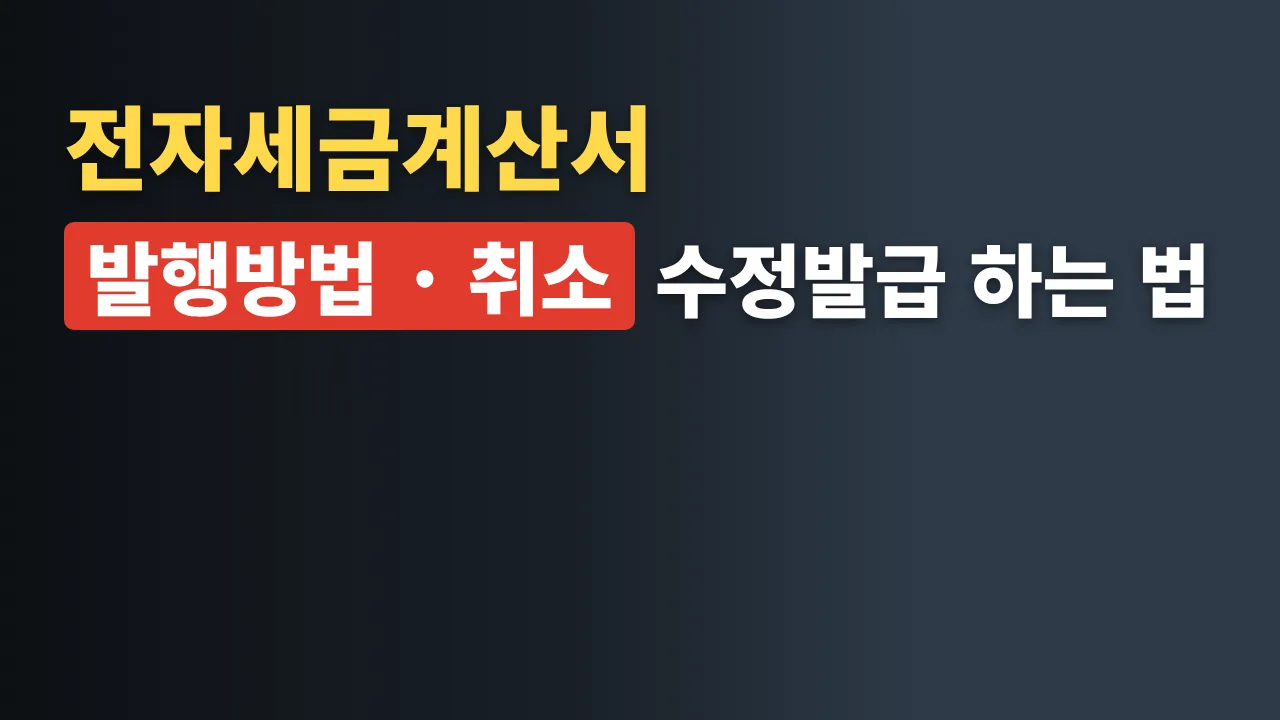
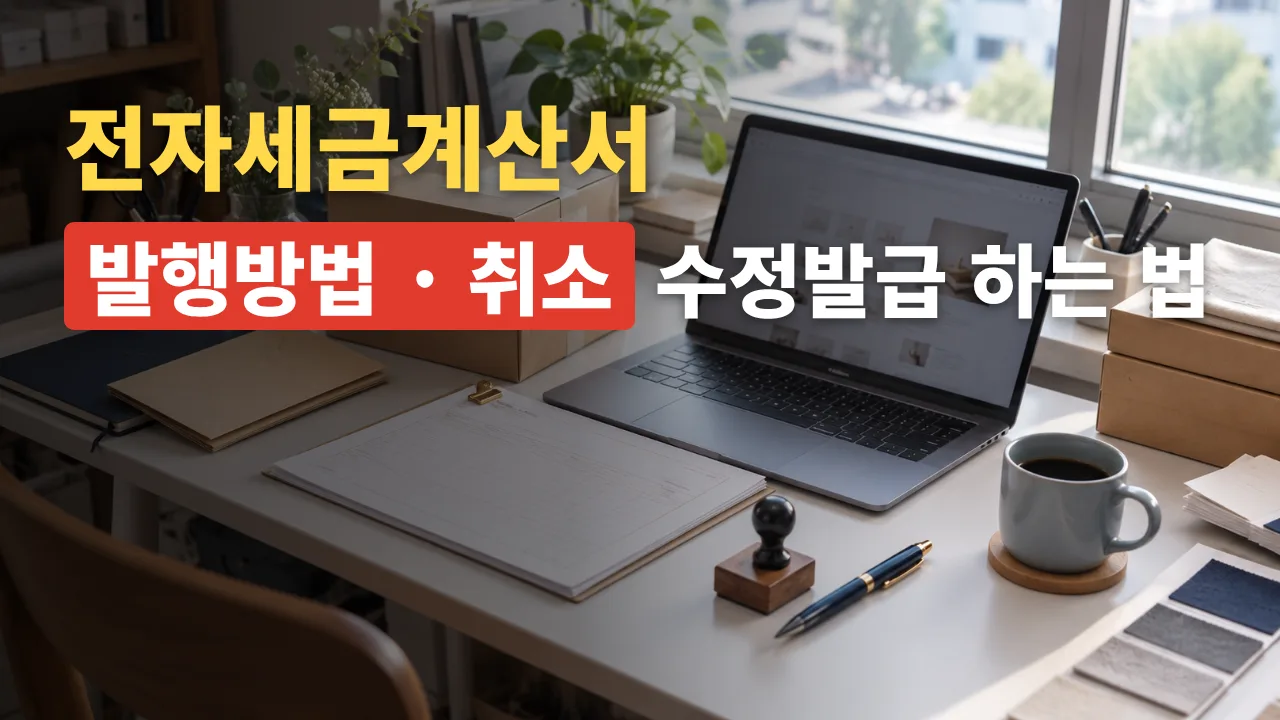
글 다듬기: 간이과세자 일반과세자 차이·전환 방법, 전자세금계산서 썸네일 교체
Claude-Session: https://claude.ai/code/session_01UeEtVFVWMgirAoUtyHaaoz

diff --git a/src/content/articles/business/simplified-taxpayer.md b/src/content/articles/business/simplified-taxpayer.md
@@ -1,8 +1,8 @@
 ---
-title: 간이과세자 기준 배제 업종과 세금계산서 일반과세자 차이
-seoTitle: 간이과세자 기준과 일반과세자 차이
-cardTitle: 간이과세자 기준과 차이
-description: 간이과세자 기준은 직전 연도 매출 1억400만원 미만 개인사업자입니다. 배제 업종, 세금계산서, 부가세 계산, 일반과세자와 차이를 정리했습니다.
+title: 간이과세자 기준과 일반과세자 차이 세금 비교와 전환 방법
+seoTitle: 간이과세자 기준과 일반과세자 차이 전환 방법
+cardTitle: 간이과세자 일반과세자 차이와 전환
+description: 간이과세자 기준과 일반과세자 차이, 매입 비율별 세금 비교, 홈택스 간이과세포기신고로 전환하는 방법과 기준을 정리했어요.
 subcategory: tax
 contentType: guide
 contentMode: evergreen
@@ -19,13 +19,17 @@ synonyms:
   - 간이과세 기준 금액
   - 간이과세자 부가가치율
   - 간이과세 포기
-  - 간이과세자 세금계산서
+  - 간이과세자 일반과세자 전환
+  - 간이과세자 일반과세자 전환 방법
+  - 간이과세자 일반과세자 전환 기준
+  - 간이과세자 일반과세자 세금 차이
+  - 간이과세자 일반과세자 전환 홈택스
 summary: 간이과세자 기준은 직전 연도 공급대가(부가세 포함 매출) 1억400만원 미만인 개인사업자이고, 배제 업종에 해당하면 매출이 적어도 간이과세를 받을 수 없어요. 간이과세 대상이라면, 주로 소비자를 상대하고 매입이 적을 때는 간이과세가, 세금계산서가 필요하거나 초기 시설 투자가 클 때는 일반과세가 맞을 수 있어요. 간이과세자는 적격 매입액의 0.5%만 공제받고 환급이 없어요.
 thumbnail: /images/thumbnails/simplified-taxpayer.webp
 ogImage: /images/og/simplified-taxpayer.png
 datePublished: 2026-10-06
-dateModified: 2026-10-25
-researchedAt: 2026-10-25
+dateModified: 2026-10-31
+researchedAt: 2026-10-31
 author: operator
 ymyl: medium
 topics: [small-business, tax]
@@ -50,11 +54,11 @@ quickFacts:
 checklist:
   title: 간이과세를 고를 수 있는지 먼저 확인
   items:
-    - 법인이 아닌 개인사업자이고, 연 매출(부가세 포함)이 1억400만원에 못 미칠 것으로 예상됩니다.
-    - 하려는 사업이 아래 '간이과세를 받을 수 없는 업종'에 해당하지 않습니다(최종소비자 대상 예외 확인).
-    - 일반과세가 적용되는 다른 사업장이 없고, 사업장이 여럿이면 매출 합계도 기준 미만입니다.
-    - 일반과세자의 사업을 인수하지 않았으며, 복식부기의무자나 국세청이 정한 간이과세 배제 기준에도 해당하지 않습니다. 예외가 있는 경우에는 별도로 확인합니다.
-    - 모두 해당해도 간이 적용이 자동으로 확정되는 것은 아니니, 등록할 때 세무서 안내로 최종 확인합니다.
+    - 법인이 아닌 개인사업자이고, 연 매출(부가세 포함)이 1억400만원에 못 미칠 것으로 예상돼요.
+    - 하려는 사업이 아래 '간이과세를 받을 수 없는 업종'에 해당하지 않아요(최종소비자 대상 예외 확인).
+    - 일반과세가 적용되는 다른 사업장이 없고, 사업장이 여럿이면 매출 합계도 기준 미만이에요.
+    - 일반과세자의 사업을 인수하지 않았으며, 복식부기의무자나 국세청이 정한 간이과세 배제 기준에도 해당하지 않아요. 예외가 있는 경우에는 별도로 확인해요.
+    - 모두 해당해도 간이 적용이 자동으로 확정되는 것은 아니니, 등록할 때 세무서 안내로 최종 확인해요.
 actionLinks:
   - org: 국세청
     action: check
@@ -68,17 +72,19 @@ actionLinks:
     sourceId: local:law-vat-61
 faq:
   - question: 법인도 간이과세자가 될 수 있나요?
-    answer: 아닙니다. 부가가치세법은 간이과세 대상을 직전 연도 공급대가가 기준 금액에 못 미치는 개인사업자로 정하고 있습니다.
+    answer: 아니에요. 부가가치세법은 간이과세 대상을 직전 연도 공급대가가 기준 금액에 못 미치는 개인사업자로 정하고 있어요.
   - question: 간이과세자도 세금계산서를 발급할 수 있나요?
-    answer: 신규 간이과세자는 개업한 날부터 개업한 해의 다음 해 6월 30일까지 세금계산서 대신 영수증을 발급합니다. 직전 연도 공급대가가 4,800만원 미만인 간이과세자도 영수증을 발급합니다. 그 밖의 간이과세자(직전 연도 4,800만원 이상)는 원칙적으로 세금계산서를 발급합니다.
+    answer: 신규 간이과세자는 개업한 날부터 개업한 해의 다음 해 6월 30일까지 세금계산서 대신 영수증을 발급해요. 직전 연도 공급대가가 4,800만원 미만인 간이과세자도 영수증을 발급해요. 그 밖의 간이과세자(직전 연도 4,800만원 이상)는 원칙적으로 세금계산서를 발급해요.
   - question: 거래처가 세금계산서를 달라고 하는데 영수증 발급 대상이면 어떻게 하나요?
-    answer: 일반과세자 거래처는 세금계산서를 받아야 그 거래의 부가세를 매입세액으로 공제받을 수 있고, 영수증 발급 기간인 간이과세자가 발급한 카드전표 등도 매입세액 공제 대상이 아닙니다. 거래처가 세금계산서를 꼭 필요로 한다면 거래 조건을 미리 협의하거나, 일반과세를 선택할지 검토하세요. 이것은 부가세 매입세액 공제 이야기이고, 거래처의 비용 처리까지 모두 안 된다는 뜻은 아닙니다.
+    answer: 일반과세자 거래처는 세금계산서를 받아야 그 거래의 부가세를 매입세액으로 공제받을 수 있고, 영수증 발급 기간인 간이과세자가 발급한 카드전표 등도 매입세액 공제 대상이 아니에요. 거래처가 세금계산서를 꼭 필요로 한다면 거래 조건을 미리 협의하거나, 일반과세를 선택할지 검토하세요. 이것은 부가세 매입세액 공제 이야기이고, 거래처의 비용 처리까지 모두 안 된다는 뜻은 아니에요.
   - question: 간이과세자는 부가세 신고를 언제 하나요?
-    answer: 1월부터 12월까지 1년치를 다음 해 1월 1일부터 25일 사이에 신고·납부합니다. 7월에는 직전 과세기간 납부세액의 절반이 예정부과로 고지될 수 있고(고지할 금액이 50만원 미만이면 고지하지 않음), 1월부터 6월 사이에 세금계산서를 발급한 간이과세자는 7월 25일까지 예정신고를 해야 합니다.
+    answer: 1월부터 12월까지 1년치를 다음 해 1월 1일부터 25일 사이에 신고·납부해요. 7월에는 직전 과세기간 납부세액의 절반이 예정부과로 고지될 수 있고(고지할 금액이 50만원 미만이면 고지하지 않음), 1월부터 6월 사이에 세금계산서를 발급한 간이과세자는 7월 25일까지 예정신고를 해야 해요.
   - question: 올해 매출이 1억400만원을 넘으면 바로 일반과세자가 되나요?
-    answer: 아닙니다. 1월부터 12월까지의 공급대가로 판단해 다음 해 7월 1일부터 그다음 해 6월 30일까지 바뀐 유형이 적용됩니다. 세무서는 유형이 바뀌는 과세기간 시작 20일 전까지 통지합니다.
+    answer: 아니에요. 1월부터 12월까지의 공급대가로 판단해 다음 해 7월 1일부터 그다음 해 6월 30일까지 바뀐 유형이 적용돼요. 세무서는 유형이 바뀌는 과세기간 시작 20일 전까지 통지해요.
 related: [/business/business-registration-application/, /business/vat-calculator/, /business/tax-calendar/]
 changelog:
+  - date: 2026-10-31
+    summary: 홈택스 간이과세포기신고 검색 화면과 전환 방법, 과세유형 확인법, 운영자 전환 경험을 더하고 차이·세금 차이·전환 기준 키워드 소제목으로 다시 정리했어요.
   - date: 2026-10-25
     summary: 실제로 많이 찾는 '간이과세자 기준'에 맞춰 제목과 첫 부분을 정리하고, 간이과세 가능 여부 판단 흐름도와 간이과세자 신고·납부 일정(1월 확정신고, 7월 예정부과·예정신고)을 국세청 부가가치세 개요와 부가가치세법 제66조·제67조 기준으로 추가했습니다.
   - date: 2026-10-17
@@ -215,34 +221,34 @@ localSources:
 
 ## 간이과세자 기준과 받을 수 없는 경우
 
-직전 연도 공급대가(부가세를 포함한 매출) 합계가 **1억400만원 미만**인 **개인사업자**는 간이과세자가 될 수 있습니다. 법인은 해당하지 않습니다. 직전 연도 중에 개업했다면 그 기간의 매출을 12개월로 환산해 판단합니다.
+직전 연도 공급대가(부가세를 포함한 매출) 합계가 **1억400만원 미만**인 **개인사업자**는 간이과세자가 될 수 있어요. 법인은 해당하지 않아요. 직전 연도 중에 개업했다면 그 기간의 매출을 12개월로 환산해 판단해요.
 
 <figure class="shot">
-  <a href="/images/articles/simplified-taxpayer-eligibility.svg" class="shot__zoom"><img src="/images/articles/simplified-taxpayer-eligibility.svg" width="1200" height="780" alt="간이과세 가능 여부 판단 흐름도. 개인사업자인지, 직전 연도 매출이 1억400만원 미만인지(부동산임대업·과세유흥장소는 4,800만원 미만), 간이과세 배제 업종이 아닌지, 일반과세 사업장·사업 인수·복식부기의무 같은 다른 배제 사유가 없는지 차례로 확인해 모두 해당하면 간이과세 가능, 하나라도 아니면 원칙적으로 일반과세자라는 내용입니다(사업 인수 등은 예외가 있음)." loading="lazy" decoding="async"></a>
-  <figcaption>간이과세를 받을 수 있는지 확인하는 순서입니다. 꿀팁정복이 국세청 부가가치세 개요와 부가가치세법 간이과세 조문(2026년 10월 25일 확인)을 바탕으로 만든 그림이며, 최종 판단은 등록할 때 세무서 안내를 따릅니다.</figcaption>
+  <a href="/images/articles/simplified-taxpayer-eligibility.svg" class="shot__zoom"><img src="/images/articles/simplified-taxpayer-eligibility.svg" width="1200" height="780" alt="간이과세 가능 여부 판단 흐름도. 개인사업자인지, 직전 연도 매출이 1억400만원 미만인지(부동산임대업·과세유흥장소는 4,800만원 미만), 간이과세 배제 업종이 아닌지, 일반과세 사업장·사업 인수·복식부기의무 같은 다른 배제 사유가 없는지 차례로 확인해 모두 해당하면 간이과세 가능, 하나라도 아니면 원칙적으로 일반과세자라는 내용이에요(사업 인수 등은 예외가 있음)." loading="lazy" decoding="async"></a>
+  <figcaption>간이과세를 받을 수 있는지 확인하는 순서예요. 꿀팁정복이 국세청 부가가치세 개요와 부가가치세법 간이과세 조문(2026년 10월 25일 확인)을 바탕으로 만든 그림이며, 최종 판단은 등록할 때 세무서 안내를 따라요.</figcaption>
 </figure>
 
-매출이 기준보다 적어도 아래에 해당하면 간이과세를 받을 수 없습니다.
+매출이 기준보다 적어도 아래에 해당하면 간이과세를 받을 수 없어요.
 
 - **업종**: 광업, 제조업, 도매업·상품중개업, 부동산매매업, 전기·가스·증기·수도 사업, 건설업, 전문·과학·기술서비스업, 사업시설관리·사업지원·임대서비스업, 변호사·세무사·의사·약사 같은 전문직 사업
-- **최종소비자 대상 예외**: 위 업종이라도 과자점·떡방앗간·양복점·양장점·양화점, 도배·실내장식·배관·냉난방 공사, 개인·가정용품 임대, 인물사진·행사용 영상 촬영, 복사업처럼 주로 최종소비자를 상대하는 사업은 간이과세를 받을 수 있습니다.
-- **부동산임대업·과세유흥장소**: 그 업종의 직전 연도 공급대가가 4,800만원 이상이면 제외되고, 지역·규모 기준에 걸려도 제외됩니다.
-- **사업장**: 일반과세가 적용되는 다른 사업장이 있거나, 사업장이 둘 이상인데 매출 합계가 기준 이상이면 제외됩니다.
-- **그 밖에**: 일반과세자에게서 넘겨받은 사업, 전전년도 기준 복식부기의무자가 하는 사업, 국세청장이 정한 지역·규모 기준에 해당하는 사업도 제외될 수 있습니다.
+- **최종소비자 대상 예외**: 위 업종이라도 과자점·떡방앗간·양복점·양장점·양화점, 도배·실내장식·배관·냉난방 공사, 개인·가정용품 임대, 인물사진·행사용 영상 촬영, 복사업처럼 주로 최종소비자를 상대하는 사업은 간이과세를 받을 수 있어요.
+- **부동산임대업·과세유흥장소**: 그 업종의 직전 연도 공급대가가 4,800만원 이상이면 제외되고, 지역·규모 기준에 걸려도 제외돼요.
+- **사업장**: 일반과세가 적용되는 다른 사업장이 있거나, 사업장이 둘 이상인데 매출 합계가 기준 이상이면 제외돼요.
+- **그 밖에**: 일반과세자에게서 넘겨받은 사업, 전전년도 기준 복식부기의무자가 하는 사업, 국세청장이 정한 지역·규모 기준에 해당하는 사업도 제외될 수 있어요.
 
-국세청은 연 매출이 1억400만원 이상으로 예상되거나 간이과세가 배제되는 업종·지역이면 일반과세자로 등록하라고 안내합니다.
+국세청은 연 매출이 1억400만원 이상으로 예상되거나 간이과세가 배제되는 업종·지역이면 일반과세자로 등록하라고 안내해요.
 
-## 어느 쪽이 맞는지 가르는 세 가지
+## 간이과세자 일반과세자 어느 쪽이 맞을까
 
-국세청은 **주로 소비자를 상대하는 업종으로 연 매출이 기준에 못 미칠 소규모사업자**라면 간이과세자로 등록하는 것이 유리하다고 안내합니다. 반대로 말하면 아래 세 가지에 해당할수록 일반과세가 맞을 수 있습니다.
+국세청은 **주로 소비자를 상대하는 업종으로 연 매출이 기준에 못 미칠 소규모사업자**라면 간이과세자로 등록하는 것이 유리하다고 안내해요. 반대로 말하면 아래 세 가지에 해당할수록 일반과세가 맞을 수 있어요.
 
-1. **거래처가 사업자라 세금계산서를 요구하나요?** 신규 간이과세자는 개업한 날부터 개업한 해의 다음 해 6월 30일까지, 직전 연도 매출이 4,800만원 미만인 간이과세자는 세금계산서 대신 영수증을 발급합니다. 일반과세자 거래처는 세금계산서가 있어야 그 거래의 부가세를 매입세액으로 공제받을 수 있습니다.
-2. **개업 초기에 인테리어·장비 매입이 큰가요?** 일반과세자는 매입세액이 매출세액보다 크면 환급받고, 사업 설비를 새로 갖추면 조기환급도 신청할 수 있습니다. 간이과세자는 공제액이 납부세액보다 커도 초과분을 돌려받지 못합니다.
-3. **매출에 비해 매입이 많은가요?** 간이과세자는 매입액의 0.5%만 공제받습니다. 매입 비율이 높을수록 일반과세자의 세금이 상대적으로 줄어듭니다.
+1. **거래처가 사업자라 세금계산서를 요구하나요?** 신규 간이과세자는 개업한 날부터 개업한 해의 다음 해 6월 30일까지, 직전 연도 매출이 4,800만원 미만인 간이과세자는 세금계산서 대신 영수증을 발급해요. 일반과세자 거래처는 세금계산서가 있어야 그 거래의 부가세를 매입세액으로 공제받을 수 있어요.
+2. **개업 초기에 인테리어·장비 매입이 큰가요?** 일반과세자는 매입세액이 매출세액보다 크면 환급받고, 사업 설비를 새로 갖추면 조기환급도 신청할 수 있어요. 간이과세자는 공제액이 납부세액보다 커도 초과분을 돌려받지 못해요.
+3. **매출에 비해 매입이 많은가요?** 간이과세자는 매입액의 0.5%만 공제받아요. 매입 비율이 높을수록 일반과세자의 세금이 상대적으로 줄어들어요.
 
-## 매입 비율로 본 부가세 비교
+## 간이과세자 일반과세자 세금 차이
 
-부가세만 놓고 단순하게 계산하면, 일반과세자 세액은 (매출 − 매입) ÷ 11이고 간이과세자 세액은 매출 × 부가가치율 × 10% − 매입 × 0.5%입니다. 두 식이 같아지는 매입 비율은 업종별 부가가치율에 따라 아래와 같습니다.
+부가세만 놓고 단순하게 계산하면, 일반과세자 세액은 (매출 − 매입) ÷ 11이고 간이과세자 세액은 매출 × 부가가치율 × 10% − 매입 × 0.5%예요. 두 식이 같아지는 매입 비율은 업종별 부가가치율에 따라 아래와 같아요.
 
 <div class="table-cards">
 
@@ -252,31 +258,31 @@ localSources:
 
 </div>
 
-이 표는 매출·매입이 모두 부가세가 붙는 거래이고 세금계산서 등 적격 증빙을 갖췄다고 가정한 계산입니다. 간이과세자 납부면제, 카드 발행세액공제, 면세 매입, 의제매입세액공제, 소득세는 넣지 않았으므로 실제 사업자에게 그대로 적용되는 기준은 아닙니다.
+이 표는 매출·매입이 모두 부가세가 붙는 거래이고 세금계산서 등 적격 증빙을 갖췄다고 가정한 계산이에요. 간이과세자 납부면제, 카드 발행세액공제, 면세 매입, 의제매입세액공제, 소득세는 넣지 않았으니 실제 사업자에게 그대로 적용되는 기준은 아니에요.
 
 ## 가상 사례로 비교하기
 
-아래 사례도 같은 단순 가정의 부가세 비교입니다. 금액은 부가세를 포함한 1년치이고, 면세 매입·의제매입세액공제·카드 발행세액공제 등은 제외했습니다.
+아래 사례도 같은 단순 가정의 부가세 비교예요. 금액은 부가세를 포함한 1년치이고, 면세 매입·의제매입세액공제·카드 발행세액공제 등은 제외했어요.
 
 <div class="table-cards">
 
 | 가상 사례 | 일반과세자 | 간이과세자 | 이 가정에서는 |
 |---|---|---|---|
-| 음식점, 평소 해: 매출 8,000만원, 적격 증빙을 갖춘 과세 매입 3,300만원 | 약 427만원 납부 | 약 104만원 납부 | 간이과세자의 부가세가 더 적습니다 |
-| 같은 음식점, 개업 첫해 인테리어·장비 6,600만원을 더 산 경우(과세 매입 합계 9,900만원) | 약 173만원 환급 | 약 71만원 납부 | 첫해만 보면 일반과세자의 부가세 부담이 더 적습니다 |
-| 개업 첫해 IT 외주: 정보통신업으로 분류되고 다른 배제 사유가 없다고 가정, 매출 4,000만원(12개월 환산도 4,000만원), 과세 매입 550만원 | 약 314만원 납부 | 납부면제 | 간이과세자의 부가세가 더 적지만, 세금계산서를 발급할 수 없습니다 |
-| 서비스업(부가가치율 30%): 매출 8,000만원, 과세 매입 1,100만원 | 약 627만원 납부 | 약 235만원 납부 | 간이과세자의 부가세가 더 적습니다 |
-| 소매업: 매출 9,900만원, 과세 매입 8,800만원 | 약 100만원 납부 | 약 105만원 납부 | 일반과세자의 부가세가 조금 더 적습니다 |
+| 음식점, 평소 해: 매출 8,000만원, 적격 증빙을 갖춘 과세 매입 3,300만원 | 약 427만원 납부 | 약 104만원 납부 | 간이과세자의 부가세가 더 적어요 |
+| 같은 음식점, 개업 첫해 인테리어·장비 6,600만원을 더 산 경우(과세 매입 합계 9,900만원) | 약 173만원 환급 | 약 71만원 납부 | 첫해만 보면 일반과세자의 부가세 부담이 더 적어요 |
+| 개업 첫해 IT 외주: 정보통신업으로 분류되고 다른 배제 사유가 없다고 가정, 매출 4,000만원(12개월 환산도 4,000만원), 과세 매입 550만원 | 약 314만원 납부 | 납부면제 | 간이과세자의 부가세가 더 적지만, 세금계산서를 발급할 수 없어요 |
+| 서비스업(부가가치율 30%): 매출 8,000만원, 과세 매입 1,100만원 | 약 627만원 납부 | 약 235만원 납부 | 간이과세자의 부가세가 더 적어요 |
+| 소매업: 매출 9,900만원, 과세 매입 8,800만원 | 약 100만원 납부 | 약 105만원 납부 | 일반과세자의 부가세가 조금 더 적어요 |
 
 </div>
 
-- **음식점 사례**: 식재료 중 가공하지 않은 농·축·수산물처럼 부가세가 면제되는 매입은 일반적인 매입세액 공제를 받을 수 없어, 실제 음식점은 과세 매입이 이보다 적을 수 있습니다.
-- **개업 첫해 사례**: 첫해에 일반과세자가 유리하더라도 이후 매출과 매입에 따라 결과가 달라질 수 있습니다. 간이과세를 포기해 일반과세를 선택하면 재적용 제한과 예외도 확인해야 합니다(아래 '간이과세를 포기하려면').
-- **IT 외주 사례**: 정보통신업으로 분류되며 다른 간이과세 배제 사유가 없는 사업자라고 가정했습니다. IT 외주도 사업 내용에 따라 간이과세가 배제되는 전문·과학·기술서비스업으로 분류될 수 있습니다. 신규 간이과세자는 영수증 발급 기간(개업 다음 해 6월 30일까지)에 세금계산서를 발급할 수 없습니다. 거래처가 매입세액 공제를 위해 세금계산서를 요구한다면 거래 조건을 협의할 필요가 있습니다. 연말에 개업해 짧은 기간에 같은 매출을 올렸다면 12개월 환산 금액이 4,800만원을 넘어 납부면제가 안 될 수 있습니다.
+- **음식점 사례**: 식재료 중 가공하지 않은 농·축·수산물처럼 부가세가 면제되는 매입은 일반적인 매입세액 공제를 받을 수 없어, 실제 음식점은 과세 매입이 이보다 적을 수 있어요.
+- **개업 첫해 사례**: 첫해에 일반과세자가 유리하더라도 이후 매출과 매입에 따라 결과가 달라질 수 있어요. 간이과세를 포기해 일반과세를 선택하면 재적용 제한과 예외도 확인해야 해요(아래 '포기하면 3년 제한').
+- **IT 외주 사례**: 정보통신업으로 분류되며 다른 간이과세 배제 사유가 없는 사업자라고 가정했어요. IT 외주도 사업 내용에 따라 간이과세가 배제되는 전문·과학·기술서비스업으로 분류될 수 있어요. 신규 간이과세자는 영수증 발급 기간(개업 다음 해 6월 30일까지)에 세금계산서를 발급할 수 없어요. 거래처가 매입세액 공제를 위해 세금계산서를 요구한다면 거래 조건을 협의할 필요가 있어요. 연말에 개업해 짧은 기간에 같은 매출을 올렸다면 12개월 환산 금액이 4,800만원을 넘어 납부면제가 안 될 수 있어요.
 
 내 매출과 매입으로 간이과세자 예상 세액을 계산해 보려면 [부가세 계산기](/business/vat-calculator/)를 이용하세요.
 
-## 일반과세자와 무엇이 다른가
+## 간이과세자 일반과세자 차이 한눈에
 
 <div class="table-cards">
 
@@ -292,9 +298,9 @@ localSources:
 
 </div>
 
-## 간이과세자 부가세는 이렇게 계산합니다
+## 간이과세자 부가세는 이렇게 계산해요
 
-간이과세자 납부세액 = **공급대가 × 업종별 부가가치율 × 10%** 이고, 여기서 세금계산서 등을 받은 매입액의 0.5%를 뺍니다.
+간이과세자 납부세액 = **공급대가 × 업종별 부가가치율 × 10%** 이고, 여기서 세금계산서 등을 받은 매입액의 0.5%를 빼요.
 
 <div class="table-cards">
 
@@ -309,19 +315,19 @@ localSources:
 
 </div>
 
-건설업, 전문·과학·기술서비스업, 사업시설관리·임대서비스업 등은 대부분 간이과세를 받을 수 없는 업종이라, 이 표의 부가가치율은 최종소비자 대상 예외 사업 등에 적용됩니다.
+건설업, 전문·과학·기술서비스업, 사업시설관리·임대서비스업 등은 대부분 간이과세를 받을 수 없는 업종이라, 이 표의 부가가치율은 최종소비자 대상 예외 사업 등에 적용돼요.
 
-카드 매출이 많다면 신용카드매출전표·현금영수증 발행세액공제도 있습니다. 2026년 12월 31일까지는 발급금액의 1.3%(연 1,000만원 한도)이고, 간이과세자는 각종 공제를 합쳐도 납부세액을 넘는 부분은 돌려받지 못합니다.
+카드 매출이 많다면 신용카드매출전표·현금영수증 발행세액공제도 있어요. 2026년 12월 31일까지는 발급금액의 1.3%(연 1,000만원 한도)이고, 간이과세자는 각종 공제를 합쳐도 납부세액을 넘는 부분은 돌려받지 못해요.
 
 ## 처음 사업자등록할 때 정하는 법
 
-새로 사업을 시작하는 개인사업자는 첫해 매출이 기준에 못 미칠 것으로 예상되면 **사업자등록을 신청할 때 간이과세 적용을 함께 신고**합니다. 등록신청서에 연간 예상 공급대가를 적어 내면 신고한 것으로 봅니다. 이렇게 신고하면 첫 과세기간은 간이과세자가 됩니다(간이과세를 받을 수 없는 업종은 제외).
+새로 사업을 시작하는 개인사업자는 첫해 매출이 기준에 못 미칠 것으로 예상되면 **사업자등록을 신청할 때 간이과세 적용을 함께 신고**해요. 등록신청서에 연간 예상 공급대가를 적어 내면 신고한 것으로 봐요. 이렇게 신고하면 첫 과세기간은 간이과세자가 돼요(간이과세를 받을 수 없는 업종은 제외).
 
-처음부터 일반과세를 원하면 등록할 때 간이과세 포기를 신고할 수 있습니다. 이때는 아래의 재적용 제한이 함께 적용됩니다. 등록 절차는 [사업자등록 신청 방법](/business/business-registration-application/)에 정리했습니다.
+처음부터 일반과세를 원하면 등록할 때 간이과세 포기를 신고할 수 있어요. 이때는 아래의 재적용 제한이 함께 적용돼요. 등록 절차는 [사업자등록 신청 방법](/business/business-registration-application/)에 정리했어요.
 
 ## 간이과세자 부가세 신고·납부 일정
 
-간이과세자는 **1월부터 12월까지 1년**을 한 과세기간으로 해서, 다음 해 **1월 1일부터 25일 사이**에 신고·납부합니다. 일반과세자가 1월과 7월에 두 번 확정신고하는 것과 다릅니다.
+간이과세자는 **1월부터 12월까지 1년**을 한 과세기간으로 해서, 다음 해 **1월 1일부터 25일 사이**에 신고·납부해요. 일반과세자가 1월과 7월에 두 번 확정신고하는 것과 달라요.
 
 | 언제 | 누가 | 무엇을 |
 |---|---|---|
@@ -330,21 +336,46 @@ localSources:
 | 7월 25일까지 | 7월 1일에 일반과세자로 바뀌는 사업자 | 1월부터 6월분을 신고·납부 |
 | 다음 해 1월 25일까지 | 모든 간이과세자 | 1년치 확정신고·납부(7월에 낸 세액은 빼고 냄) |
 
-- 직전 과세기간이 6개월이었던 경우(일반과세자에서 간이과세자로 바뀐 해)는 50%가 아니라 그 납부세액 전액이 고지됩니다.
-- 폐업하면 폐업한 달의 다음 달 25일까지 신고·납부합니다.
-- 해당 과세기간 공급대가가 4,800만원 미만이면 납부의무가 면제됩니다. 새로 개업한 해나 휴업·폐업·유형 전환이 있는 해는 그 기간의 매출을 12개월로 환산해 봅니다.
-- 날짜별 일정은 [사업자 세금 달력](/business/tax-calendar/)에서 유형별로 확인할 수 있습니다.
+- 직전 과세기간이 6개월이었던 경우(일반과세자에서 간이과세자로 바뀐 해)는 50%가 아니라 그 납부세액 전액이 고지돼요.
+- 폐업하면 폐업한 달의 다음 달 25일까지 신고·납부해요.
+- 해당 과세기간 공급대가가 4,800만원 미만이면 납부의무가 면제돼요. 새로 개업한 해나 휴업·폐업·유형 전환이 있는 해는 그 기간의 매출을 12개월로 환산해 봐요.
+- 날짜별 일정은 [사업자 세금 달력](/business/tax-calendar/)에서 유형별로 확인할 수 있어요.
 
-## 유형이 바뀔 때 주의할 것
+## 간이과세자 일반과세자 전환 기준
 
-- **바뀌는 시기**: 1월부터 12월까지의 공급대가로 판단해 **다음 해 7월 1일부터 그다음 해 6월 30일까지** 바뀐 유형이 적용됩니다. 새로 개업한 사업자는 개업한 해의 다음 해 7월 1일부터 적용됩니다. 세무서는 유형이 바뀌는 과세기간 시작 **20일 전까지** 통지합니다.
-- **간이에서 일반으로 바뀔 때**: 바뀌는 날 가지고 있는 재고품, 건설 중인 자산, 감가상각자산(건물은 10년, 그 밖의 자산은 2년 이내 취득분)의 매입세액 일부를 공제받을 수 있습니다(재고매입세액). 바뀌기 직전 과세기간 신고 때 재고품등 신고서를 함께 내야 합니다.
-- **일반에서 간이로 바뀔 때**: 이미 공제받은 재고품·자산의 매입세액 일부를 다시 내야 합니다(재고납부세액). 이 세액은 간이과세자 납부면제 대상이어도 냅니다.
+- **바뀌는 시기**: 1월부터 12월까지의 공급대가로 판단해 **다음 해 7월 1일부터 그다음 해 6월 30일까지** 바뀐 유형이 적용돼요. 새로 개업한 사업자는 개업한 해의 다음 해 7월 1일부터 적용돼요. 세무서는 유형이 바뀌는 과세기간 시작 **20일 전까지** 통지해요.
+- **간이에서 일반으로 바뀔 때**: 바뀌는 날 가지고 있는 재고품, 건설 중인 자산, 감가상각자산(건물은 10년, 그 밖의 자산은 2년 이내 취득분)의 매입세액 일부를 공제받을 수 있어요(재고매입세액). 바뀌기 직전 과세기간 신고 때 재고품등 신고서를 함께 내야 해요.
+- **일반에서 간이로 바뀔 때**: 이미 공제받은 재고품·자산의 매입세액 일부를 다시 내야 해요(재고납부세액). 이 세액은 간이과세자 납부면제 대상이어도 내요.
 
-## 간이과세를 포기하려면
+## 간이과세자 일반과세자 전환 방법
 
-간이과세자가 일반과세를 받고 싶으면, 적용받으려는 달의 **전달 마지막 날까지** 세무서에 포기 신고를 합니다. 새로 개업하는 사람은 사업자등록을 신청할 때 포기 신고를 할 수 있습니다.
+매출이 기준을 넘어 저절로 바뀌는 경우(위 전환 기준) 말고, 간이과세자가 스스로 일반과세자가 되려면 **간이과세포기신고**를 해요. 적용받으려는 달의 **전달 마지막 날까지** 세무서에 신고해야 하고, 새로 개업하는 사람은 사업자등록을 신청할 때 포기 신고를 할 수 있어요.
 
-포기하면 원칙적으로 **3년 동안** 다시 간이과세를 받을 수 없습니다. 다만 직전 연도 공급대가가 4,800만원 이상이면서 간이 기준 금액 미만인 사업자 등은 그 전이라도 과세기간 시작 10일 전까지 신고해 간이과세를 다시 적용받을 수 있습니다.
+### 홈택스에서 전환하기
+
+<figure class="shot">
+  <a href="/images/articles/simplified-taxpayer-giveup-hometax.webp" class="shot__zoom"><img src="/images/articles/simplified-taxpayer-giveup-hometax.webp" width="800" height="522" alt="홈택스 검색창에 간이과세포기를 입력한 검색 결과 화면. 1번 검색창, 2번 일반세무서류 신청(홈택스) 분류의 간이과세포기신고, 3번 세금신고 분류의 부가가치세 신고 > (모의계산)부가가치세 세액비교가 빨간 상자로 표시돼 있습니다." loading="lazy" decoding="async"></a>
+  <figcaption>홈택스 검색으로 간이과세포기신고 메뉴를 찾은 화면이에요. (2026년 10월 31일 확인)</figcaption>
+</figure>
+
+1. 홈택스에 로그인해요.
+2. 검색창에 **간이과세포기**를 입력해요.
+3. 검색 결과의 **일반세무서류 신청(홈택스) → 간이과세포기신고**를 열어 작성하고 제출해요.
+
+바꾸기 전에 같은 검색 결과에 나오는 **(모의계산)부가가치세 세액비교**로 내 매출·매입에서 세금이 얼마나 달라지는지 먼저 보세요.
+
+저는 세금계산서를 발행해야 하는 일을 하려고 눈물을 머금고 홈택스에서 간이과세포기신고를 했어요. 신청하자마자 바로 일반과세자로 바뀐 걸로 나왔어요.
+
+다만 법으로는 포기 신고를 한 달까지 간이과세자이고, 일반과세는 그다음 달 1일부터 적용돼요. 세금계산서 발급 시점은 이 날짜를 기준으로 잡으세요.
+
+지내 보니 세금 처리할 게 훨씬 간단한 간이과세자가 낫다고 느껴요. 그런데 아직 그 일을 하지 않고 있어서, 좀 더 따져 보고 바꿀 걸 하는 마음이에요.
+
+### 과세유형 확인하는 법
+
+지금 내 과세유형은 홈택스 사업자상태 조회(사업자등록번호) 결과에서 볼 수 있어요. 언제 바뀌었는지는 상담·불복·제보 메뉴의 과세유형전환 이력 조회에서 확인해요.
+
+### 포기하면 3년 제한
+
+포기하면 원칙적으로 **3년 동안** 다시 간이과세를 받을 수 없어요. 다만 직전 연도 공급대가가 4,800만원 이상이면서 간이 기준 금액 미만인 사업자 등은 그 전이라도 과세기간 시작 10일 전까지 신고해 간이과세를 다시 적용받을 수 있어요.
 
 판단이 어렵다면 국세상담센터(국번 없이 126)나 세무 전문가에게 확인하세요.
